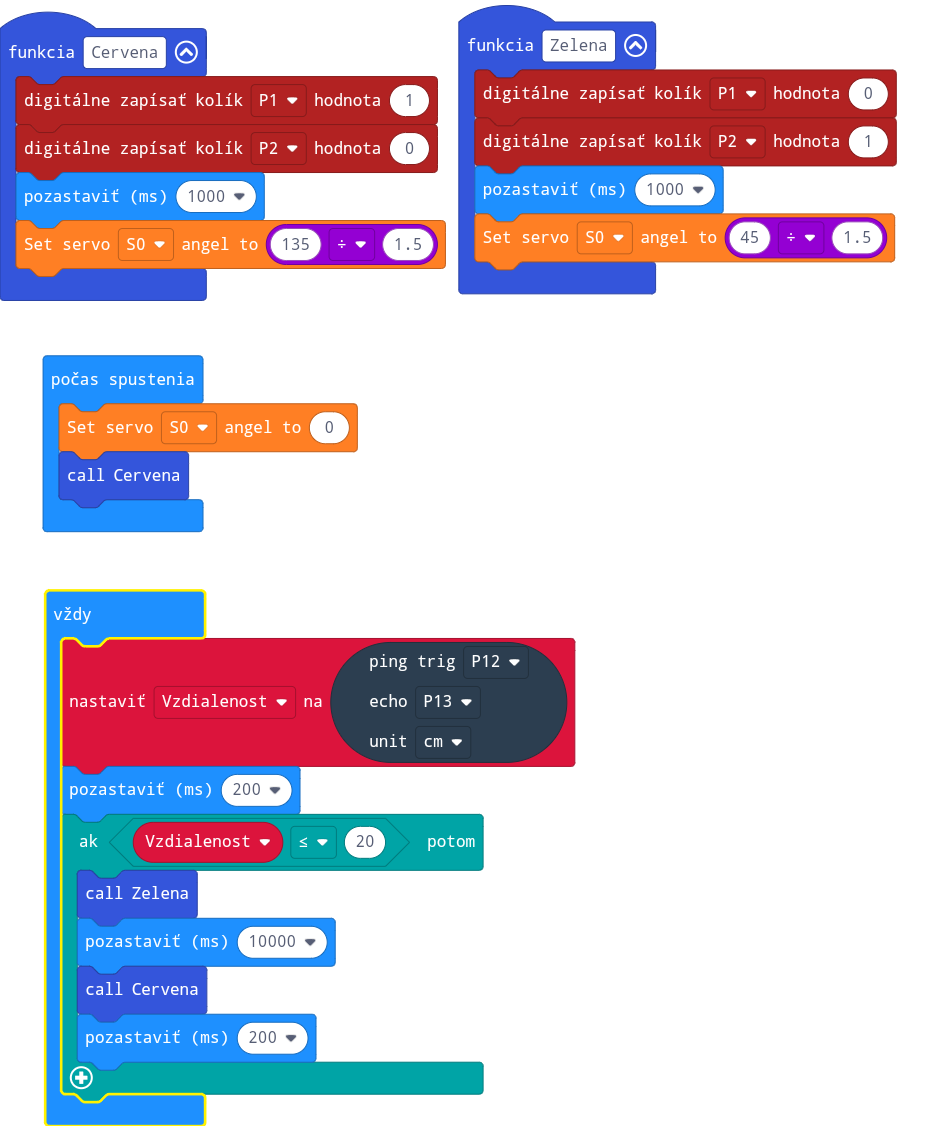
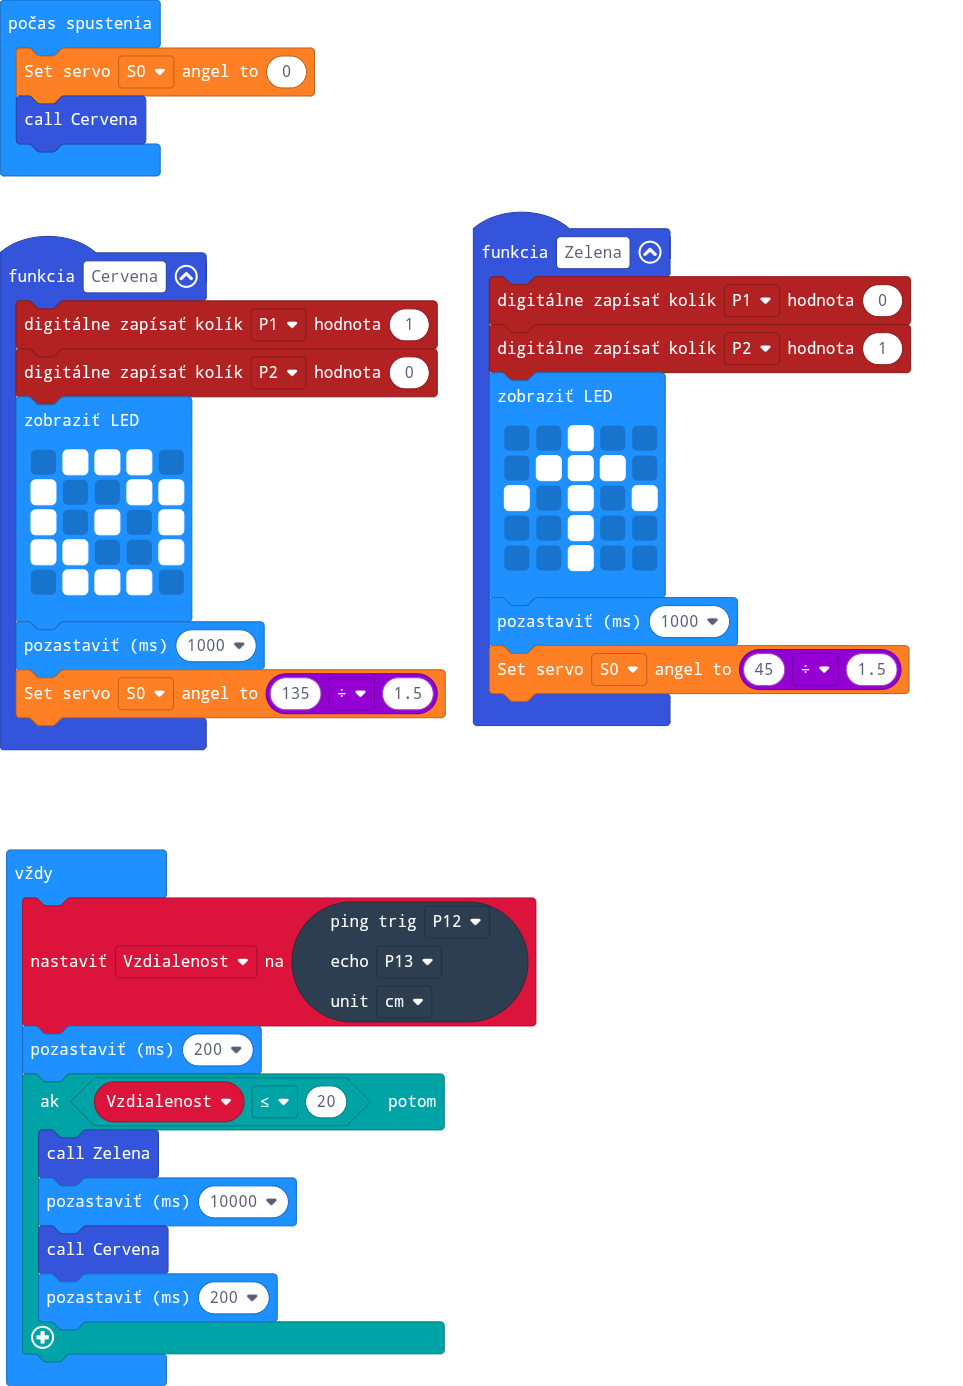
Update main.blocks, main.ts

diff --git a/main.ts b/main.ts
@@ -1,12 +1,26 @@
 function Zelena () {
     pins.digitalWritePin(DigitalPin.P1, 0)
     pins.digitalWritePin(DigitalPin.P2, 1)
+    basic.showLeds(`
+        . . # . .
+        . # # # .
+        # . # . #
+        . . # . .
+        . . # . .
+        `)
     basic.pause(1000)
     wuKong.setServoAngel(wuKong.ServoList.S0, 45 / 1.5)
 }
 function Cervena () {
     pins.digitalWritePin(DigitalPin.P1, 1)
     pins.digitalWritePin(DigitalPin.P2, 0)
+    basic.showLeds(`
+        . # # # .
+        # . . # #
+        # . # . #
+        # # . . #
+        . # # # .
+        `)
     basic.pause(1000)
     wuKong.setServoAngel(wuKong.ServoList.S0, 135 / 1.5)
 }
